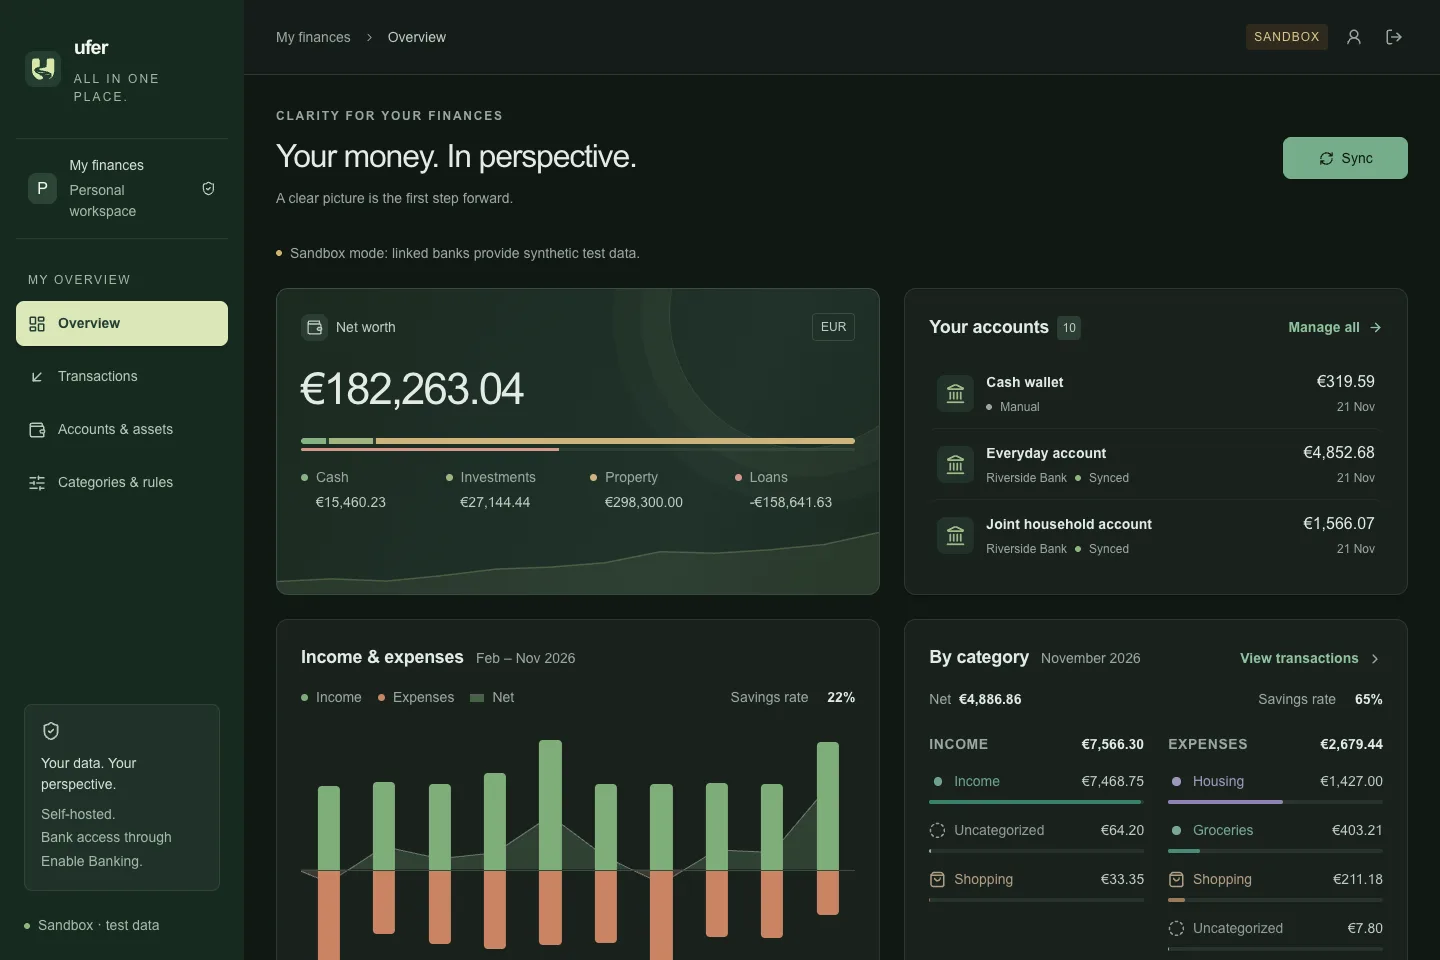
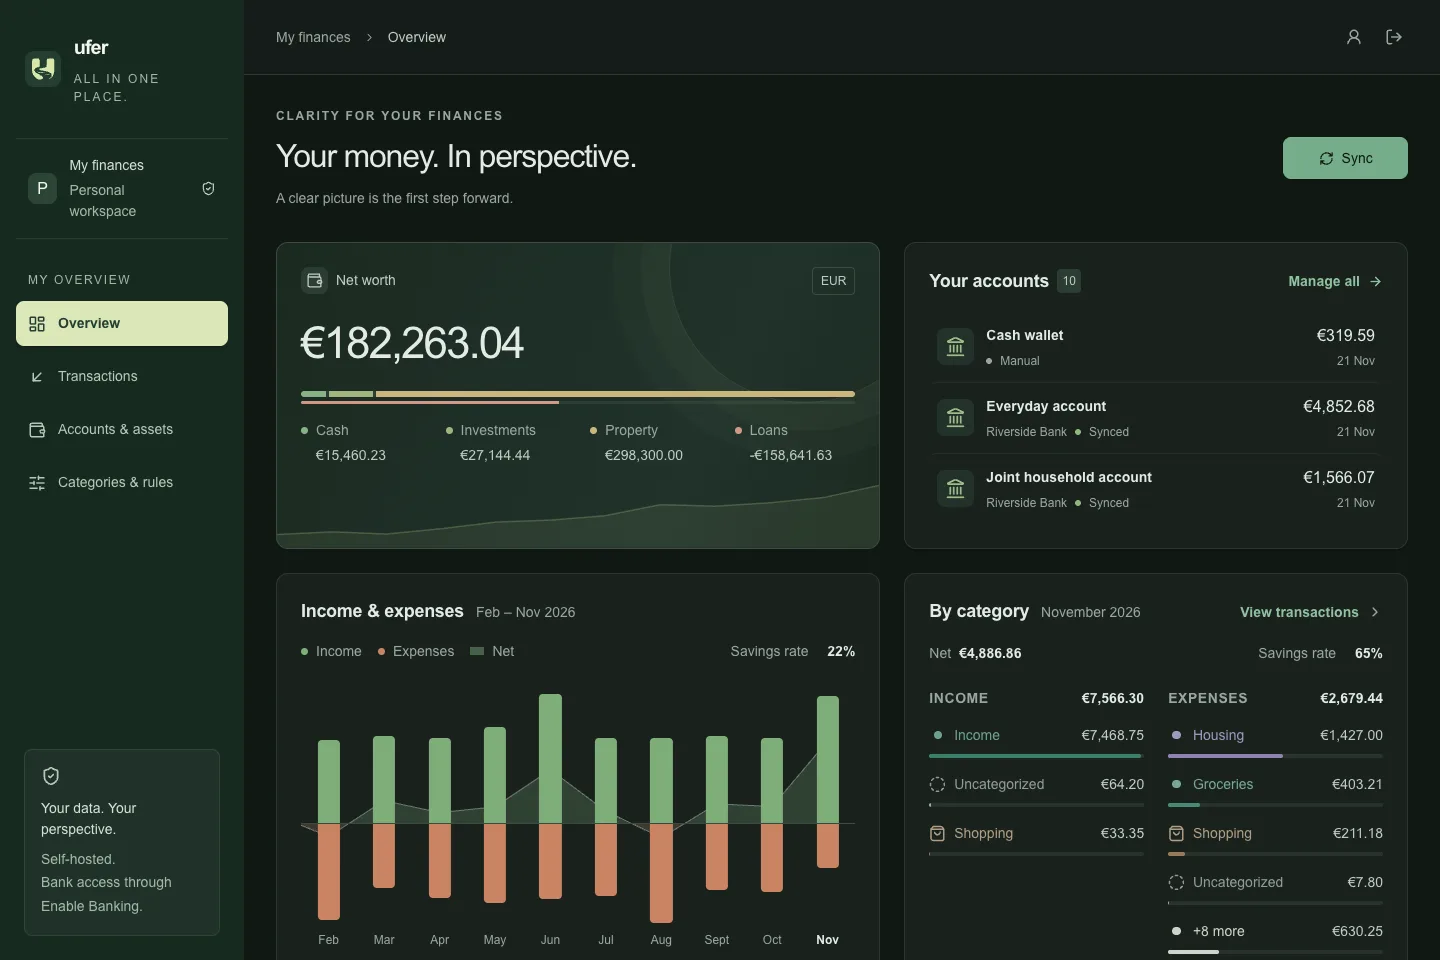
Capture screenshots without sandbox and configuration notices

diff --git a/scripts/capture-screenshots.ts b/scripts/capture-screenshots.ts
@@ -1,5 +1,5 @@
 import { spawn, type ChildProcess } from "node:child_process";
-import { randomBytes } from "node:crypto";
+import { generateKeyPairSync, randomBytes, randomUUID } from "node:crypto";
 import { mkdirSync, mkdtempSync, rmSync, writeFileSync } from "node:fs";
 import { tmpdir } from "node:os";
 import path from "node:path";
@@ -243,6 +243,28 @@ async function captureAll(browser: Browser, storageState: Awaited<ReturnType<typ
   }
 }
 
+/**
+ * The server shows the demo as a configured production installation, without the sandbox marker and the missing-configuration notice.
+ * Its application ID and key are throwaway values no provider knows; the captured views make no provider request, because sync skips demo accounts and the bank directory loads only when the connect dialog opens.
+ */
+function productionLookingEnvironment(env: NodeJS.ProcessEnv): NodeJS.ProcessEnv {
+  const {
+    privateKey
+  } = generateKeyPairSync("rsa", {
+    modulusLength: 2048
+  });
+
+  return {
+    ...env,
+    ENABLE_BANKING_ENVIRONMENT: "PRODUCTION",
+    ENABLE_BANKING_APP_ID: randomUUID(),
+    ENABLE_BANKING_PRIVATE_KEY: privateKey.export({
+      type: "pkcs8",
+      format: "pem"
+    }).toString()
+  };
+}
+
 async function main() {
   mkdirSync(outputDirectory, {
     recursive: true
@@ -279,7 +301,7 @@ async function main() {
     }));
 
     server = spawn("npx", ["next", "dev", "--hostname", "127.0.0.1", "--port", String(port)], {
-      env,
+      env: productionLookingEnvironment(env),
       stdio: ["ignore", "ignore", "inherit"],
       detached: true
     });

diff --git a/docs/setup.md b/docs/setup.md
@@ -30,7 +30,7 @@ To seed a local throwaway database, point `DATABASE_URL` at a new file, for exam
 
 ## Screenshots
 
-`npm run screenshots` regenerates the README images in `docs/screenshots/` from scratch. It creates a temporary database, fills it with the demo data ending today, enrolls a throwaway user with a random password held only in memory, starts a development server on `127.0.0.1:3917` (`SCREENSHOT_PORT` overrides it) and captures each view at 1440 px (desktop) and 390 px (phone) in the light theme, plus the overview in the dark theme, as WebP. Afterwards it stops the server and deletes the database and secrets. It ignores `.env`, needs no Enable Banking credentials and contacts no bank provider.
+`npm run screenshots` regenerates the README images in `docs/screenshots/` from scratch. It creates a temporary database, fills it with the demo data ending today, enrolls a throwaway user with a random password held only in memory, starts a development server on `127.0.0.1:3917` (`SCREENSHOT_PORT` overrides it) and captures each view at 1440 px (desktop) and 390 px (phone) in the light theme, plus the overview in the dark theme, as WebP. Afterwards it stops the server and deletes the database and secrets. It ignores `.env` and needs no Enable Banking credentials. The seed runs in the sandbox environment; the server that renders the screenshots runs as a configured production installation with a throwaway application ID and key that no provider knows, so the images show no sandbox marker or configuration notice. The captured views make no provider request: sync skips demo accounts and the bank directory loads only when the connect dialog opens.
 
 It needs Google Chrome; set `CHROME_PATH` to another Chromium-based browser. Stop other development servers of the same checkout first, because they share the `.next` build directory. Review the images before committing them: they show the current UI and the dates of the run day.
 
